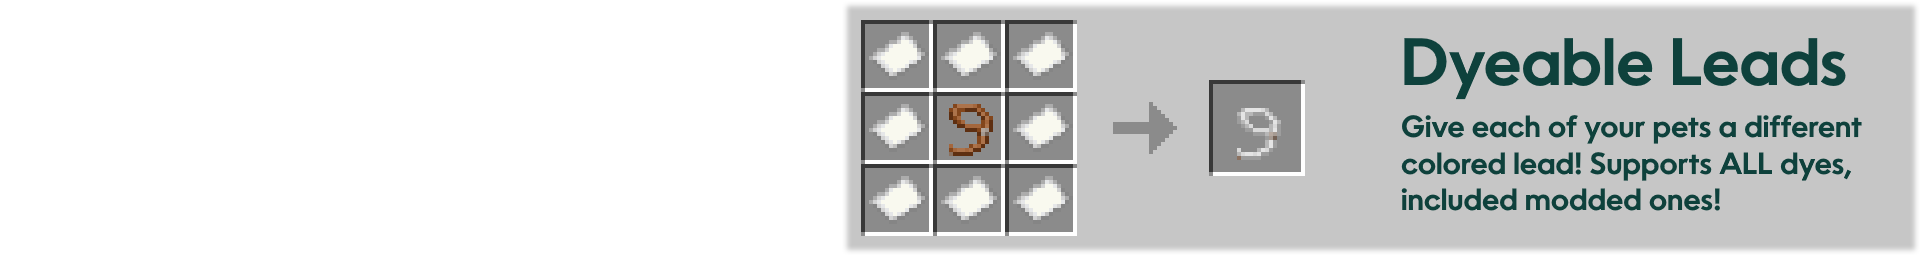
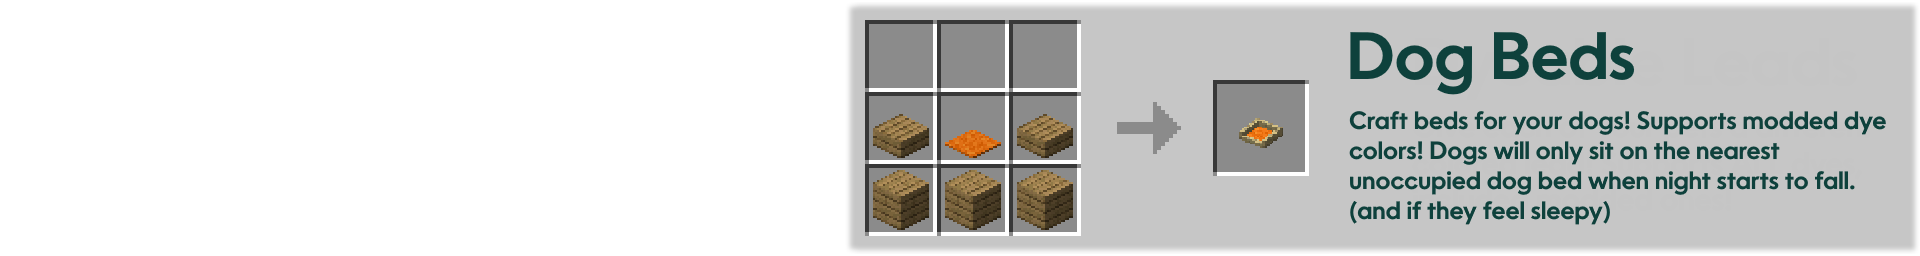
Dog Beds

Changed region(s): [[0.5938, 0.3125, 1.0, 0.875], [0.4375, 0.0938, 0.5625, 0.9062], [0.6875, 0.125, 0.9688, 0.375]]

diff --git a/src/main/java/mine/block/woof/datagen/WoofDatagen.java b/src/main/java/mine/block/woof/datagen/WoofDatagen.java
@@ -1,0 +1,84 @@
+package mine.block.woof.datagen;
+
+import mine.block.woof.block.WoofBlocks;
+import net.devtech.arrp.api.RRPCallback;
+import net.devtech.arrp.api.RRPPreGenEntrypoint;
+import net.devtech.arrp.api.RuntimeResourcePack;
+import net.devtech.arrp.json.blockstate.JState;
+import net.devtech.arrp.json.loot.JLootTable;
+import net.devtech.arrp.json.models.JModel;
+import net.devtech.arrp.json.recipe.*;
+import net.fabricmc.api.ModInitializer;
+import net.minecraft.block.Block;
+import net.minecraft.item.Item;
+import net.minecraft.item.Items;
+import net.minecraft.util.Identifier;
+import org.apache.commons.lang3.StringUtils;
+
+import java.nio.charset.StandardCharsets;
+import java.util.Map;
+
+
+public class WoofDatagen implements ModInitializer {
+
+    public static final RuntimeResourcePack RESOURCE_PACK = RuntimeResourcePack.create("woof:arrp");
+
+    @Override
+    public void onInitialize() {
+        for (Map.Entry<String, Block> value : WoofBlocks.DOG_BEDS.entrySet()) {
+            if(!value.getKey().equals("White")) {
+                RESOURCE_PACK.addModel(JModel.model("woof:block/dog_bed")
+                                .textures(JModel.textures().var("1", "block/" + value.getKey() + "_wool")),
+                        new Identifier("woof:block/" + value.getKey() + "_dog_bed")
+                );
+
+                RESOURCE_PACK.addAsset(new Identifier("woof:blockstates/" + value.getKey() + "_dog_bed.json"), String.format("""
+                    {
+                      "variants": {
+                        "facing=north": {
+                          "model": "woof:block/%s_dog_bed",
+                          "y": 180
+                        },
+                        "facing=east": {
+                          "model": "woof:block/%s_dog_bed",
+                          "y": 270
+                        },
+                        "facing=south": {
+                          "model": "woof:block/%s_dog_bed"
+                        },
+                        "facing=west": {
+                          "model": "woof:block/%s_dog_bed",
+                          "y": 90
+                        }
+                      }
+                    }
+                    """, value.getKey(), value.getKey(), value.getKey(), value.getKey()).getBytes(StandardCharsets.UTF_8));
+            }
+
+            RESOURCE_PACK.addLootTable(new Identifier("woof:block/" + value.getKey() + "_dog_bed"), JLootTable.loot("minecraft:block")
+                    .pool(JLootTable.pool()
+                            .rolls(1)
+                            .entry(JLootTable.entry()
+                                    .type("minecraft:item")
+                                    .name("woof:" + value.getKey() + "_dog_bed"))
+                            .condition(JLootTable.condition("minecraft:survives_explosion"))));
+
+            RESOURCE_PACK.addModel(JModel.model().parent("woof:block/" + value.getKey() + "_dog_bed"), new Identifier("woof:item/" + value.getKey() + "_dog_bed"));
+
+            RESOURCE_PACK.addRecipe(new Identifier("woof:" + value.getKey() + "_dog_bed"), JRecipe.shaped(JPattern.pattern(
+                    "   ",
+                    "S_S",
+                    "BBB"
+            ), JKeys.keys()
+                    .key("S", JIngredient.ingredient().tag("minecraft:wooden_slabs"))
+                    .key("B", JIngredient.ingredient().tag("minecraft:planks"))
+                    .key("_", JIngredient.ingredient().item("minecraft:" + value.getKey() + "_carpet")),
+                    JResult.result("woof:" + value.getKey() + "_dog_bed"))
+            );
+        }
+
+        RRPCallback.AFTER_VANILLA.register((re) -> {
+            re.add(RESOURCE_PACK);
+        });
+    }
+}

diff --git a/src/main/java/mine/block/woof/block/DogBedBlock.java b/src/main/java/mine/block/woof/block/DogBedBlock.java
@@ -1,0 +1,45 @@
+package mine.block.woof.block;
+
+import net.minecraft.block.*;
+import net.minecraft.item.ItemPlacementContext;
+import net.minecraft.state.StateManager;
+import net.minecraft.state.property.Properties;
+import net.minecraft.state.property.Property;
+import net.minecraft.util.function.BooleanBiFunction;
+import net.minecraft.util.math.BlockPos;
+import net.minecraft.util.math.Direction;
+import net.minecraft.util.shape.VoxelShape;
+import net.minecraft.util.shape.VoxelShapes;
+import net.minecraft.world.BlockView;
+import net.minecraft.world.World;
+import org.jetbrains.annotations.Nullable;
+
+import java.util.stream.Stream;
+
+public class DogBedBlock extends HorizontalFacingBlock {
+    public DogBedBlock(Settings settings) {
+        super(settings);
+    }
+
+    @Override
+    protected void appendProperties(StateManager.Builder<Block, BlockState> builder) {
+        builder.add(FACING);
+    }
+
+    public BlockState getPlacementState(ItemPlacementContext ctx) {
+        Direction direction = ctx.getPlayerFacing();
+        return this.getDefaultState().with(FACING, direction);
+    }
+
+    @Override
+    public VoxelShape getOutlineShape(BlockState state, BlockView world, BlockPos pos, ShapeContext context) {
+        return Stream.of(
+                Block.createCuboidShape(0, 0, 0, 2, 4, 16),
+                Block.createCuboidShape(14, 0, 0, 16, 4, 16),
+                Block.createCuboidShape(2, 0, 2, 14, 0, 14),
+                Block.createCuboidShape(2, 0, 14, 14, 4, 16),
+                Block.createCuboidShape(2, 0, 0, 14, 2, 2),
+                Block.createCuboidShape(2, 1, 2, 14, 1, 14)
+        ).reduce((v1, v2) -> VoxelShapes.combineAndSimplify(v1, v2, BooleanBiFunction.OR)).get();
+    }
+}

diff --git a/src/main/java/mine/block/woof/block/WoofBlocks.java b/src/main/java/mine/block/woof/block/WoofBlocks.java
@@ -1,15 +1,35 @@
 package mine.block.woof.block;
 
 import net.minecraft.block.AbstractBlock;
+import net.minecraft.block.Block;
 import net.minecraft.block.Material;
+import net.minecraft.item.*;
+import net.minecraft.sound.BlockSoundGroup;
+import net.minecraft.util.DyeColor;
 import net.minecraft.util.Identifier;
 import net.minecraft.util.registry.Registry;
 
+import java.util.HashMap;
+import java.util.stream.Collectors;
+
 public class WoofBlocks {
     public static final DogBowlBlock DOG_BOWL_BLOCK;
+    public static final HashMap<String, Block> DOG_BEDS = new HashMap<>();
 
     static {
-        DOG_BOWL_BLOCK = Registry.register(Registry.BLOCK, new Identifier("woof:dog_bowl_block"), new DogBowlBlock(AbstractBlock.Settings.of(Material.WOOD)));
+        DOG_BOWL_BLOCK = Registry.register(Registry.BLOCK, new Identifier("woof:dog_bowl_block"), new DogBowlBlock(AbstractBlock.Settings.of(Material.WOOD).sounds(BlockSoundGroup.WOOD)));
+
+        var dyeItems = Registry.ITEM.stream().filter(DyeItem.class::isInstance);
+        for (Item item : dyeItems.toList()) {
+            Identifier itemID = item.getRegistryEntry().getKey().get().getValue();
+            String name = itemID.getPath().replace("_dye", "");
+            DOG_BEDS.put(name, register(name + "_dog_bed", new DogBedBlock(AbstractBlock.Settings.of(Material.WOOL).sounds(BlockSoundGroup.WOOD))));
+        }
+    }
+
+    private static <T extends Block> T register(String id, T block) {
+        Registry.register(Registry.ITEM, new Identifier("woof:" + id), new BlockItem(block, new Item.Settings().group(ItemGroup.DECORATIONS)));
+        return Registry.register(Registry.BLOCK, new Identifier("woof:" + id), block);
     }
 
     public static void init() {

diff --git a/src/main/java/mine/block/woof/entity/DogSitOnBlockGoal.java b/src/main/java/mine/block/woof/entity/DogSitOnBlockGoal.java
@@ -1,5 +1,6 @@
 package mine.block.woof.entity;
 
+import mine.block.woof.block.DogBedBlock;
 import net.minecraft.block.BedBlock;
 import net.minecraft.block.BlockState;
 import net.minecraft.block.Blocks;
@@ -45,7 +46,10 @@ public class DogSitOnBlockGoal extends MoveToTargetPosGoal {
             return false;
         } else {
             BlockState blockState = world.getBlockState(pos);
-            return blockState.isOf(Blocks.FURNACE) && blockState.get(FurnaceBlock.LIT) || blockState.isIn(BlockTags.WOOL_CARPETS) || blockState.isIn(BlockTags.BEDS, (state) -> state.getOrEmpty(BedBlock.PART).map((part) -> part != BedPart.HEAD).orElse(true));
+            return blockState.isOf(Blocks.FURNACE) && blockState.get(FurnaceBlock.LIT)
+                    || blockState.isIn(BlockTags.WOOL_CARPETS)
+                    || blockState.isIn(BlockTags.BEDS, (state) -> state.getOrEmpty(BedBlock.PART).map((part) -> part != BedPart.HEAD).orElse(true))
+                    || blockState.getBlock() instanceof DogBedBlock;
         }
     }
 }
